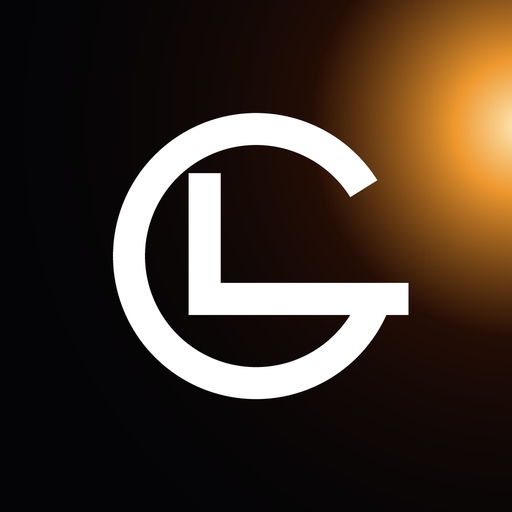
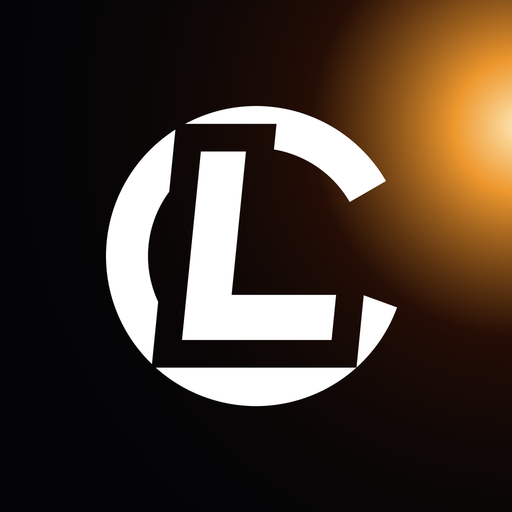
Аватар: буквы крупнее, L плоскостью поверх кольца
Буквы были мелкими и терялись в кадре. Теперь кольцо занимает больше двух
третей стороны, а L построена не штрихом, а плоскостью с прямыми срезами
и наклоном.

Между кольцом и L прорезан зазор шириной 54 единицы сетки. Без него две
фигуры слипались в один силуэт и знак читался как случайное пятно; с ним
видно, что одна плоскость лежит поверх другой.

Толщину пришлось искать в две попытки. Сначала плоскости были набраны
целиком прямоугольниками — вышла клякса, съевшая весь воздух. Потом
кольцо утолщено до 104 и превратилось в диск, а L утонула в нём.
Работающее значение между этими двумя.

Разрыв кольца сведён к 50 градусам и направлен туда же, куда светит
источник; подошва L укорочена, чтобы не касаться кольца справа.

Claude-Session: https://claude.ai/code/session_015oxYo9NmTwSr7ibnzqvLb3

diff --git a/design/render_avatar.py b/design/render_avatar.py
@@ -24,8 +24,14 @@ MID = (238, 152, 46)
 DEEP = (36, 13, 5)
 BLACK = (4, 4, 6)
 
-GAP_DIR = -26               # куда смотрит разрыв кольца, градусы
+GAP_DIR = -26               # куда смотрит разрыв буквы, градусы
 LIGHT_DIST = 1.16           # ядро уходит за край: видно только затухание
+
+# Знак строится плоскостями на своей сетке, а не шрифтом.
+GRID = 1000
+T = 88                     # толщина плоскости
+CUT = 54                    # зазор там, где плоскости перекрываются
+SHEAR = 0.10                # наклон: верх уходит вправо
 
 
 def lerp(a, b, t):
@@ -68,31 +74,46 @@ def light_field():
     return field.resize((S, S), Image.BICUBIC)
 
 
+def place(mask, rects, value):
+    """Прямоугольники с сетки построения переносятся на холст с наклоном."""
+    draw = ImageDraw.Draw(mask)
+    k = S / GRID
+    for x0, y0, x1, y1 in rects:
+        poly = []
+        for x, y in ((x0, y0), (x1, y0), (x1, y1), (x0, y1)):
+            # Чем выше точка, тем сильнее уходит вправо.
+            poly.append(((x + SHEAR * (GRID / 2 - y)) * k, y * k))
+        draw.polygon(poly, fill=value)
+
+
+def letter_l():
+    """L: вертикаль и подошва, положенные поверх кольца."""
+    return [
+        (372, 296, 372 + T, 664),
+        (372, 664 - T, 664, 664),
+    ]
+
+
 def monogram():
-    """G — дуга с разрывом, L — вертикаль внутри. Горизонталь общая:
-    она же перекладина G, она же подошва L. Срезы прямые, без скруглений —
-    так фигура читается как архитектура, а не как надпись."""
+    """Кольцо с разрывом читается как G, поверх лежит L. В месте
+    перекрытия прорезан зазор: без него две фигуры слипаются в силуэт,
+    с ним читаются как две плоскости, одна поверх другой.
+
+    Толщина выбрана крупной намеренно — тонкая линия на аватаре
+    размером с ноготь исчезает, а разбирать её никто не станет."""
     mask = Image.new("L", (S, S), 0)
     draw = ImageDraw.Draw(mask)
 
-    r = 286 * SS
-    w = 64 * SS
-
-    bar_y = C + int(r * 0.30)
-    end_deg = math.degrees(math.asin(0.30))     # где дуга приходит к горизонтали
-
+    r = 300 * SS
+    w = 84 * SS
     draw.arc(
         [C - r, C - r, C + r, C + r],
-        start=end_deg, end=360 + GAP_DIR - 6,
+        start=20, end=360 + GAP_DIR - 4,
         fill=255, width=w,
     )
 
-    right = C + int(r * math.cos(math.radians(end_deg))) + w // 2
-    left = C - int(r * 0.36)
-
-    draw.rectangle([left - w // 2, bar_y - w // 2, right, bar_y + w // 2], fill=255)
-    draw.rectangle([left - w // 2, C - int(r * 0.58), left + w // 2, bar_y + w // 2], fill=255)
-
+    place(mask, [(a - CUT, b - CUT, c + CUT, d + CUT) for a, b, c, d in letter_l()], 0)
+    place(mask, letter_l(), 255)
     return mask
 
 
